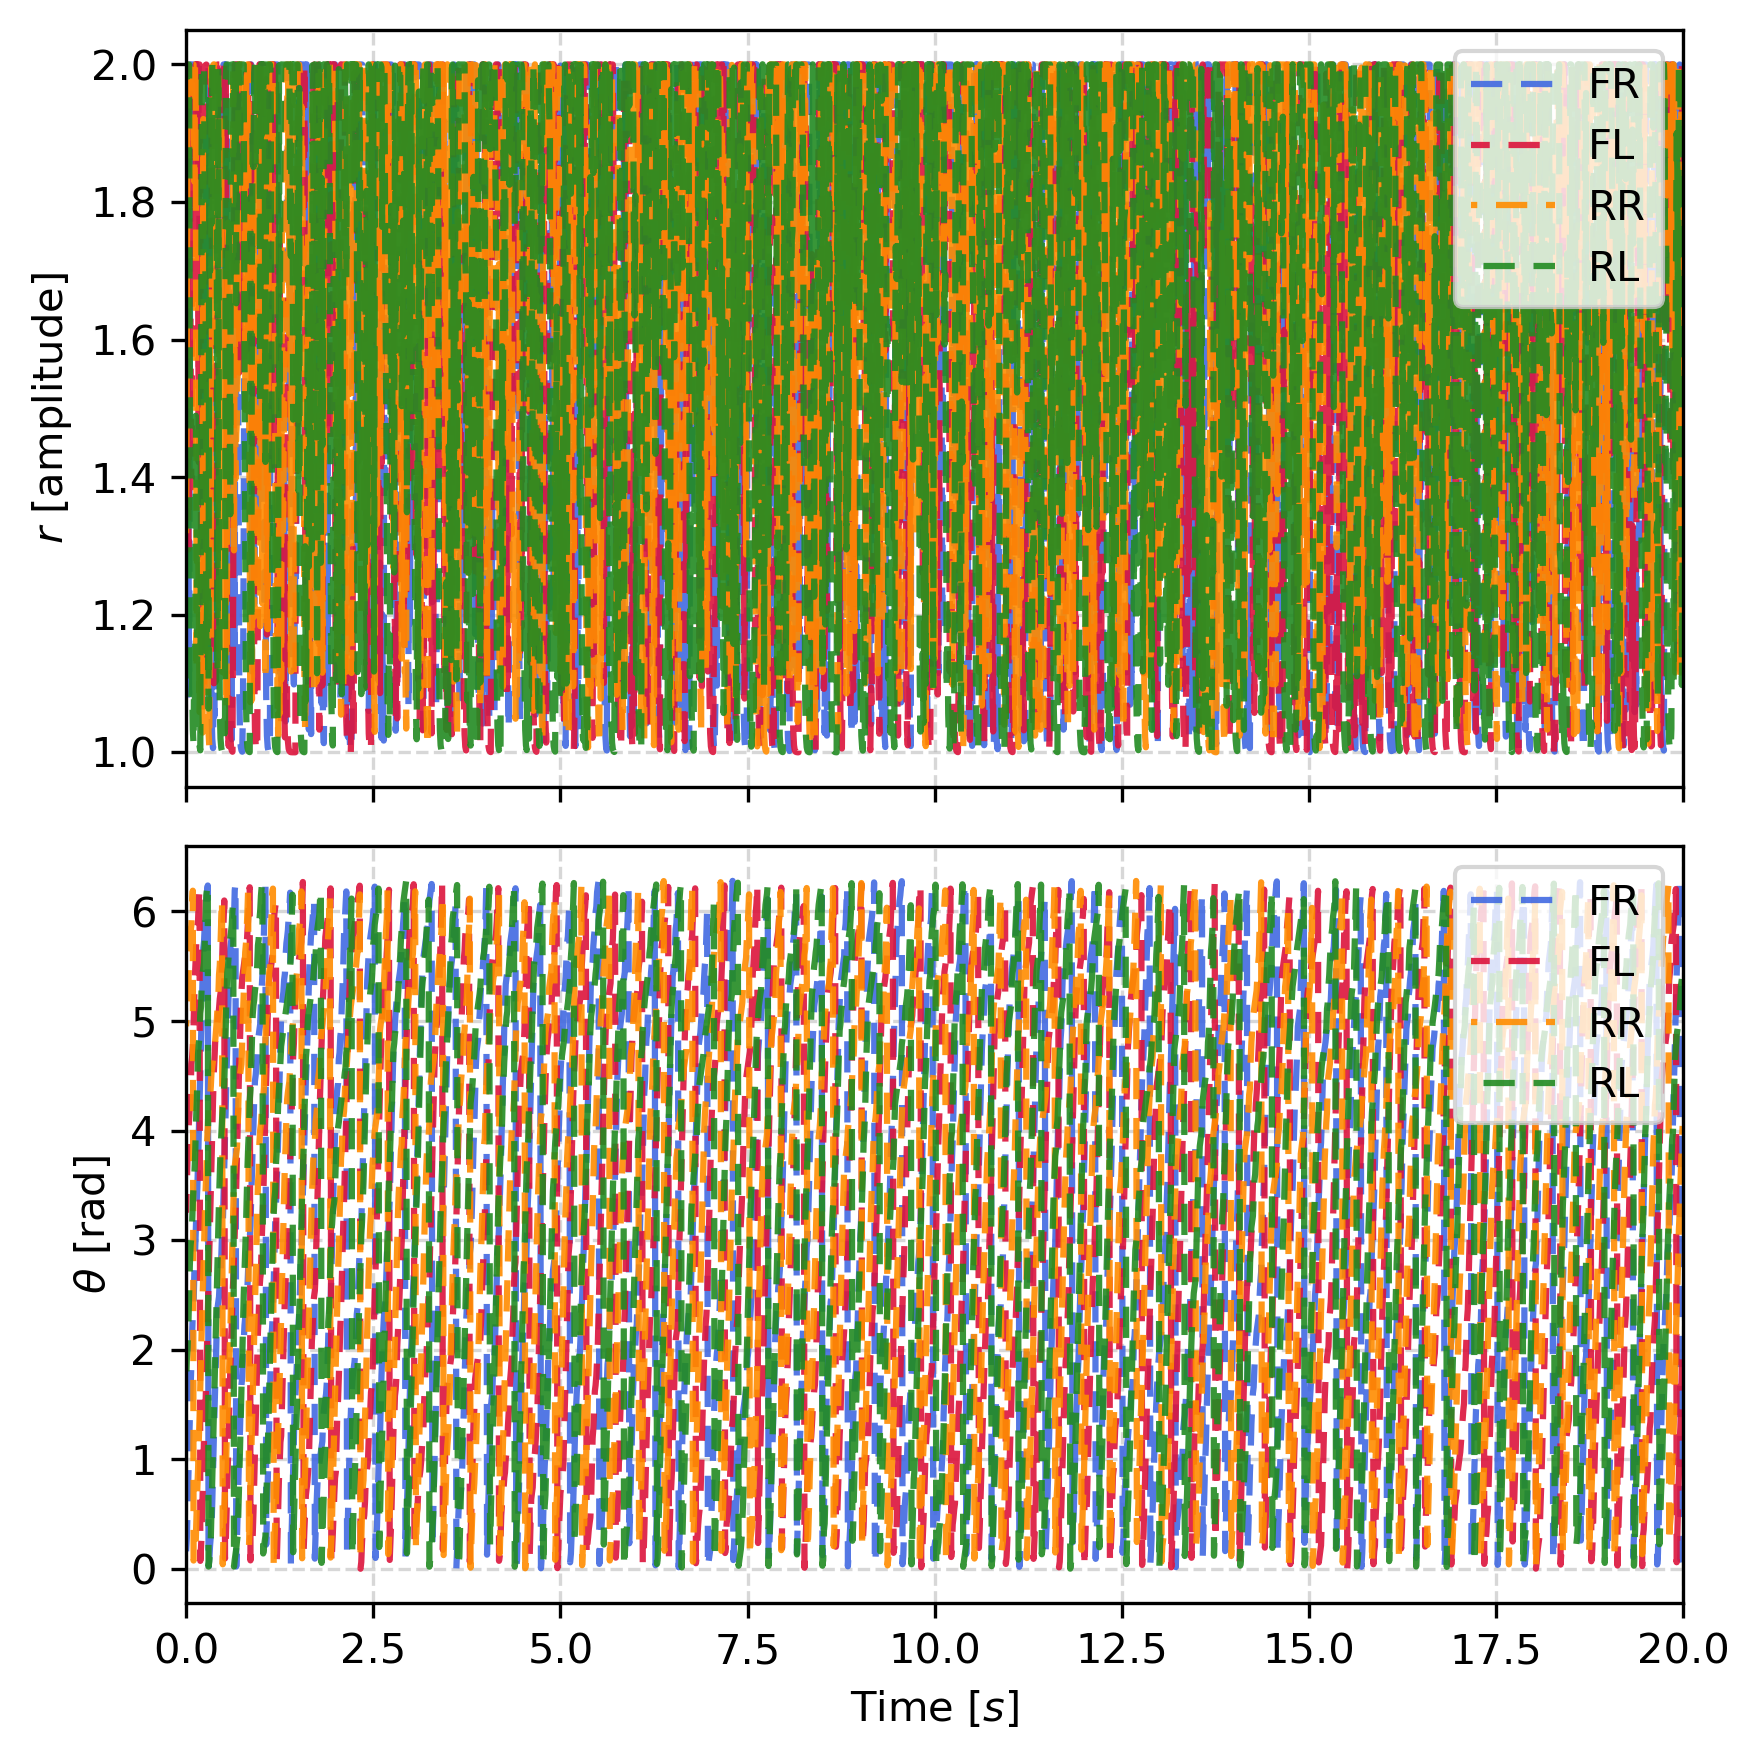
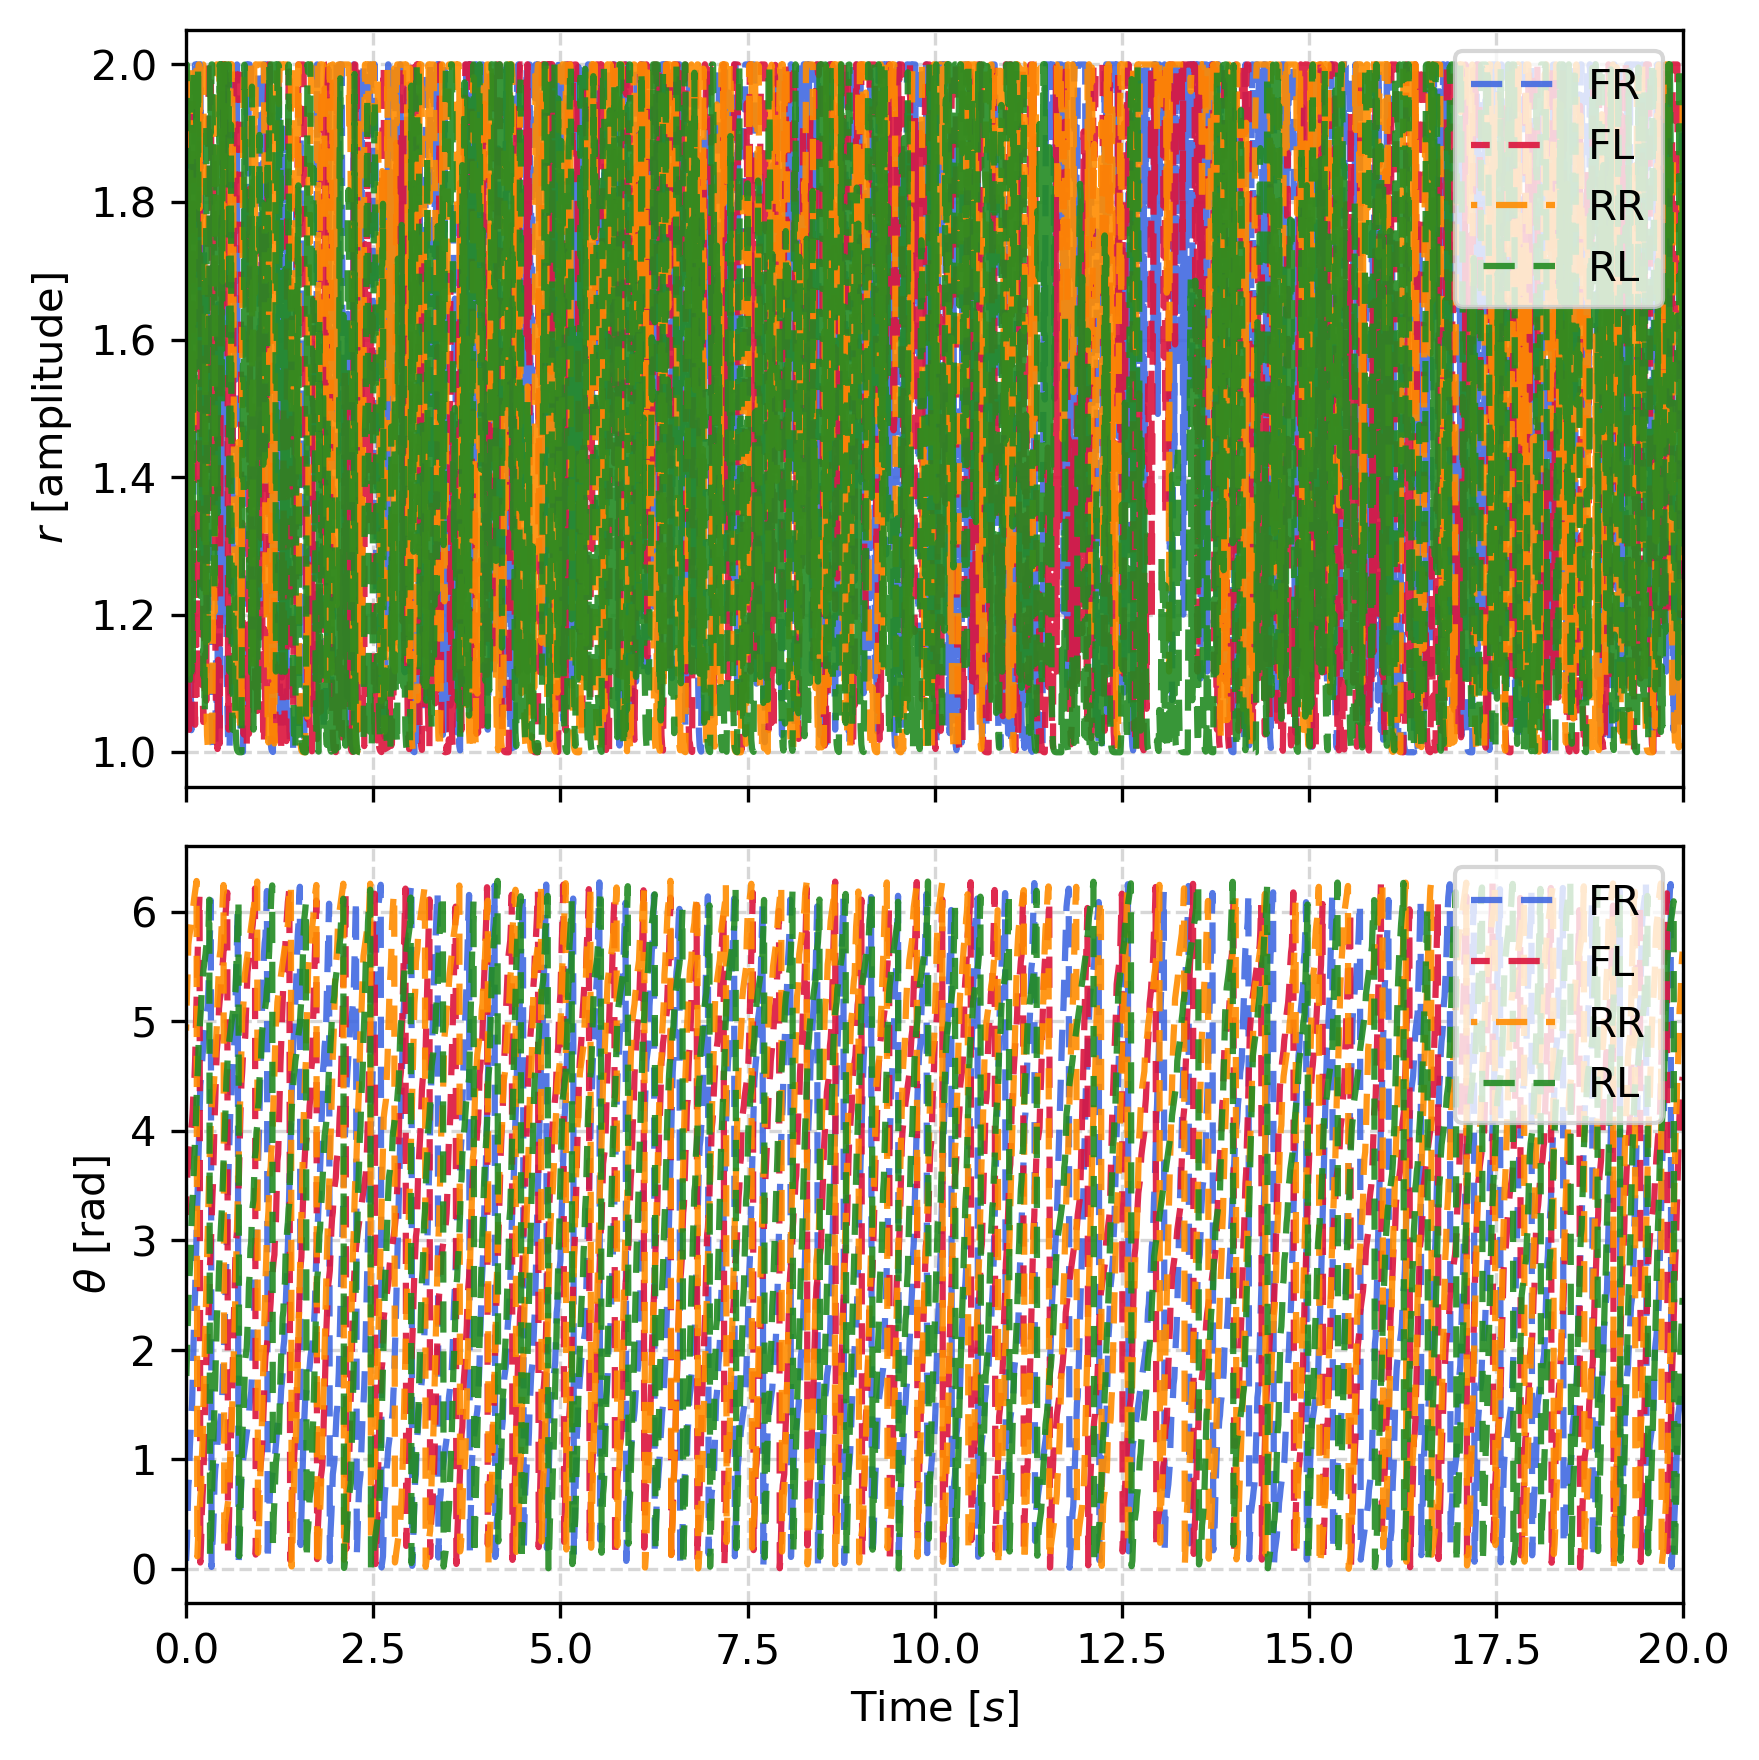
last chaanges

diff --git a/lr_mp2_group_16/load_sb3.py b/lr_mp2_group_16/load_sb3.py
@@ -56,10 +56,12 @@ from env.quadruped_gym_env import QuadrupedGymEnv
 from utils.utils import plot_results
 from utils.file_utils import get_latest_model, load_all_results
 
+TIME_STEP = 0.01
+
 LEARNING_ALG = "PPO" #"SAC"
 interm_dir = "./logs/intermediate_models/"
 # path to saved models, i.e. interm_dir + '102824115106'
-log_dir = interm_dir + 'cpg_NOyawREWARD_0.6velREWARD' # change to your log dir
+log_dir = interm_dir + 'slope_cpg_bigNegx0.4yaw1.3velREWARD1.2targetvel' # change to your log dir
 
 # initialize env configs (render at test time)
 # check ideal conditions, as well as robustness to UNSEEN noise during training
@@ -101,6 +103,12 @@ base_cpg_theta = []
 
 actions_list = []
 rewards_list = []
+CoT_list = []
+
+# Get initial base position and robot mass for CoT calculation
+robot = env.envs[0].env.robot
+last_base_pos = np.array(robot.GetBasePosition(), dtype=float)
+mass = sum(robot.GetTotalMassFromURDF())
 
 for i in range(2000):
     action, _states = model.predict(obs,deterministic=False) # sample at test time? ([TODO]: test if the outputs make sense)
@@ -108,9 +116,11 @@ for i in range(2000):
     episode_reward += rewards
     
     # Extract info from step
-    base_pos = info[0]['base_pos']
+    base_pos = np.array(info[0]['base_pos'], dtype=float)
     base_vel = info[0]['base_vel']
     
+    # Get current motor velocities for energy calculation
+    dq = robot.GetMotorVelocities()
 
     # Save data
     base_velocities.append(base_vel)
@@ -119,6 +129,22 @@ for i in range(2000):
 
     actions_list.append(action)
     rewards_list.append(rewards)
+    
+    # Compute Cost of Transport (CoT)
+    # Get motor torques (which were actually applied, not the raw actions)
+    tau_all = np.array(robot.GetMotorTorques(), dtype=float)
+    vel_all = np.array(dq, dtype=float)
+    power = np.abs(np.dot(tau_all, vel_all))
+    energy = power * TIME_STEP
+    distance_travelled = np.sqrt((base_pos[0] - last_base_pos[0])**2 + (base_pos[1] - last_base_pos[1])**2)
+    
+    # Avoid division by zero
+    if distance_travelled > 1e-6:
+        CoT_list.append(energy / (mass * 9.81 * distance_travelled))
+    else:
+        CoT_list.append(0)
+    
+    last_base_pos = base_pos
     
     if dones:
         print('episode_reward', episode_reward)
@@ -130,12 +156,22 @@ for i in range(2000):
     # To get base position, for example: env.envs[0].env.robot.GetBasePosition() 
 
 
-
 base_velocities = np.array(base_velocities)
 actions_list = np.array(actions_list)
 rewards_list = np.array(rewards_list)
 base_cpg_r = np.array(base_cpg_r)
 base_cpg_theta = np.array(base_cpg_theta)
+CoT_list = np.array(CoT_list)
+
+# Calculate and print average metrics
+avg_CoT = np.mean(CoT_list[CoT_list > 0])  # Exclude zero values
+vel_norm = np.linalg.norm(base_velocities, axis=1)
+avg_speed = np.mean(vel_norm)
+
+print("\n" + "="*50)
+print(f"Average Cost of Transport (CoT): {avg_CoT:.4f} J/(kg·m)")
+print(f"Average Speed: {avg_speed:.4f} m/s")
+print("="*50 + "\n")
 
 # [TODO] make plots
 
@@ -143,7 +179,7 @@ base_cpg_theta = np.array(base_cpg_theta)
 vel_norm = np.linalg.norm(base_velocities, axis=1)
 plt.figure()
 plt.plot(vel_norm)
-plt.title("Vitesse linéaire du robot")
+plt.title("Robot's linear velocity (x axis)")
 plt.xlabel("Timestep")
 plt.ylabel("|v| (m/s)")
 plt.grid(True)
@@ -165,11 +201,19 @@ if base_cpg_theta.size > 0 and base_cpg_theta[0].size > 0:
     plt.figure()
     for i in range(base_cpg_theta[0].size):
         plt.plot(base_cpg_theta[:, i], label=f'Leg {i}')
-    plt.title("cpg_theta (CPG frequencies)")
+    plt.title("cpg_theta (CPG phases)")
     plt.xlabel("Timestep")
     plt.ylabel("cpg_theta")
     plt.legend()
     plt.grid(True)
+
+# --- Plot Cost of Transport (CoT) ---
+plt.figure()
+plt.plot(CoT_list)
+plt.title("Cost of Transport (CoT)")
+plt.xlabel("Timestep")
+plt.ylabel("CoT (J/(kg·m))")
+plt.grid(True)
 
 plt.show()
 
@@ -181,7 +225,6 @@ plt.show()
 })
 '''
 
-TIME_STEP = 0.01
 t = np.arange(2000)*TIME_STEP
 
 def plot_cpg_states():

diff --git a/lr_mp2_group_16/env/quadruped_gym_env.py b/lr_mp2_group_16/env/quadruped_gym_env.py
@@ -128,13 +128,13 @@ class QuadrupedGymEnv(gym.Env):
       time_step=0.001,
       action_repeat=10,  
       motor_control_mode="CPG",
-      task_env="FWD_LOCOMOTION",
+      task_env="LR_COURSE_TASK", #LR_COURSE_TASK
       observation_space_mode="DEFAULT",
       on_rack=False,
       render=False,
       record_video=False,
       add_noise=True,
-      terrain=None,
+      terrain="SLOPES",
       test_flagrun=False, 
       **kwargs): # any extra arguments from legacy
     """Initialize the quadruped gym environment.
@@ -378,7 +378,7 @@ class QuadrupedGymEnv(gym.Env):
 
   def _reward_fwd_locomotion(self, des_vel_x=None):
     """Learn forward locomotion at a desired velocity. """
-    vel_tracking_reward = 1.0 * np.clip(self.robot.GetBaseLinearVelocity()[0], 0.2, 1.0)
+    vel_tracking_reward = 0.6 * np.clip(self.robot.GetBaseLinearVelocity()[0], 0.2, 1.0)
     # If you want to track a desired velocity 
     # vel_tracking_reward = 0.05 * np.exp( -1/ 0.25 *  (self.robot.GetBaseLinearVelocity()[0] - des_vel_x)**2 )
     
@@ -392,6 +392,7 @@ class QuadrupedGymEnv(gym.Env):
 
     for tau,vel in zip(self._dt_motor_torques,self._dt_motor_velocities):
       energy_reward += np.abs(np.dot(tau,vel)) * self._time_step
+
 
     reward = vel_tracking_reward \
             + yaw_reward \
@@ -454,7 +455,7 @@ class QuadrupedGymEnv(gym.Env):
 
     # --- 1. Forward velocity reward ---
     # Desired forward speed
-    target_speed = 1.0  # m/s
+    target_speed = 1.2  # m/s
     vx = lin_vel[0]
     vel_reward = np.exp(-((vx - target_speed) ** 2) / 0.25)
 
@@ -463,7 +464,7 @@ class QuadrupedGymEnv(gym.Env):
     drift_penalty = -0.1 * abs(vy)
 
     # --- 3. Yaw stability penalty ---
-    yaw_penalty = -0.1 * abs(rpy[2])
+    yaw_penalty = -0.4 * abs(rpy[2]) #0.1 originalement
 
     # --- 4. Uprightness reward (dot product of up vector with world z) ---
     up_vec = self.robot.GetBaseOrientationMatrix()[:, 2]  # robot's z-axis
@@ -477,13 +478,25 @@ class QuadrupedGymEnv(gym.Env):
 
     # --- Total reward ---
     reward = (
-        1.0 * vel_reward
-        + 0.3 * upright_reward
+        1.3 * vel_reward
+        + 0.3 * upright_reward #0.3 initialement
         + drift_penalty
         + yaw_penalty
-        + energy_penalty
+        + 0.0 * energy_penalty
     )
+    vz = self.robot.GetBaseLinearVelocity()[2]
+    z_reward = 0.1 * max(0.0, vz) # 0.1 ou 1
+    vx = self.robot.GetBaseLinearVelocity()[0]
+    neg_x_penalty = 1.0 * max(0.0, -vx) # 0.5 ou 1
 
+    pitch = rpy[1]
+    uphill_bonus = 0.2 * np.sign(pitch) * vx # 0.2 ou 1
+    
+    # --- Roll penalty: penalize lateral tilting ---
+    roll = rpy[0]
+    roll_penalty = -0.2 * abs(roll)  # penalize any roll deviation from upright
+    
+    reward = reward + z_reward - neg_x_penalty + uphill_bonus #+ roll_penalty
     # Keep reward positive
     return float(max(reward, 0.0))
 
